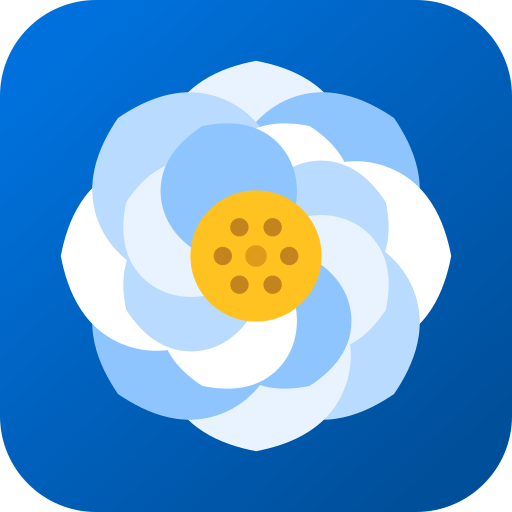
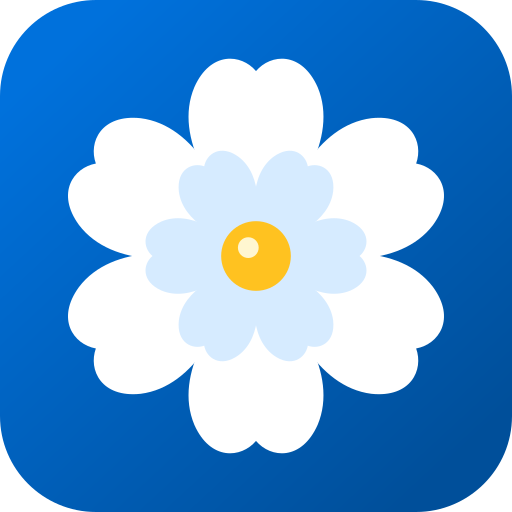
Replace the lotus mark with a cleaner bloom. (#25)
Six white petals and a small gold center suit the blue header and stay readable while the mark keeps its 12-second roll.

diff --git a/src/components/BrandLogo.tsx b/src/components/BrandLogo.tsx
@@ -22,17 +22,16 @@ const WORD_SIZE = {
 } as const;
 
 const PETAL_FILLS = {
-  light: ["#1F7FE8", "#005CBC", "#2B8AF0", "#004F9A"],
-  bright: ["#E8F3FF", "#8EC5FF", "#FFFFFF", "#B8DBFF"],
+  light: { outer: "#0071DC", inner: "#004F9A" },
+  bright: { outer: "#FFFFFF", inner: "#D6EBFF" },
 } as const;
 
-/** Wide lotus petal. The large seed pod is what makes the mark a lotus. */
-const LOTUS_PETAL =
-  "M0 2.2C7.4-0.4 13.6-8 11.4-15.6C9.6-21.6 4.2-23.6 0-24.4C-4.2-23.6-9.6-21.6-11.4-15.6C-13.6-8-7.4-0.4 0 2.2Z";
+/** Six open petals and a small gold heart. Gaps stay clear while it rolls. */
+const BLOOM_PETAL =
+  "M0-3.2C6.2-8.4 12.4-17.6 9.2-25.2C6.8-30.6 2.2-30.2 0-27.6C-2.2-30.2-6.8-30.6-9.2-25.2C-12.4-17.6-6.2-8.4 0-3.2Z";
 
-const OUTER_ANGLES = [0, 45, 90, 135, 180, 225, 270, 315];
-const INNER_ANGLES = OUTER_ANGLES.map((angle) => angle + 22.5);
-const SEED_ANGLES = [0, 60, 120, 180, 240, 300];
+const OUTER_ANGLES = [0, 60, 120, 180, 240, 300];
+const INNER_ANGLES = OUTER_ANGLES.map((angle) => angle + 30);
 
 function LogoMark({
   className = "",
@@ -42,6 +41,8 @@ function LogoMark({
   tone: "light" | "bright";
 }) {
   const fills = PETAL_FILLS[tone];
+  const outerFill = fills.outer;
+  const innerFill = fills.inner;
 
   return (
     <svg
@@ -51,34 +52,25 @@ function LogoMark({
       aria-hidden
       focusable="false"
     >
-      <g transform="translate(32 32) scale(1.18)">
-        {OUTER_ANGLES.map((angle, i) => (
+      <g transform="translate(32 32)">
+        {OUTER_ANGLES.map((angle) => (
           <path
             key={`outer-${angle}`}
             transform={`rotate(${angle})`}
-            fill={fills[i % fills.length]}
-            d={LOTUS_PETAL}
+            fill={outerFill}
+            d={BLOOM_PETAL}
           />
         ))}
-        {INNER_ANGLES.map((angle, i) => (
+        {INNER_ANGLES.map((angle) => (
           <path
             key={`inner-${angle}`}
-            transform={`rotate(${angle}) scale(0.72)`}
-            fill={fills[(i + 2) % fills.length]}
-            d={LOTUS_PETAL}
+            transform={`rotate(${angle}) scale(0.56)`}
+            fill={innerFill}
+            d={BLOOM_PETAL}
           />
         ))}
-        <circle r="8.2" fill="#FFC220" />
-        {SEED_ANGLES.map((angle) => (
-          <circle
-            key={angle}
-            cx={Math.cos((angle * Math.PI) / 180) * 4.15}
-            cy={Math.sin((angle * Math.PI) / 180) * 4.15}
-            r="1.15"
-            fill="#C4841D"
-          />
-        ))}
-        <circle r="1.35" fill="#E09A1A" />
+        <circle r="5.2" fill="#FFC220" />
+        <circle cx="-1.15" cy="-1.25" r="1.55" fill="#FFF6D0" />
       </g>
     </svg>
   );

diff --git a/src/app/press/page.tsx b/src/app/press/page.tsx
@@ -31,8 +31,8 @@ const assets = [
   },
   {
     href: "/logo-mark.svg",
-    label: "Lotus mark (SVG)",
-    detail: "Icon-only lotus",
+    label: "Flower mark (SVG)",
+    detail: "Icon-only bloom",
   },
   {
     href: "/icon.png",
